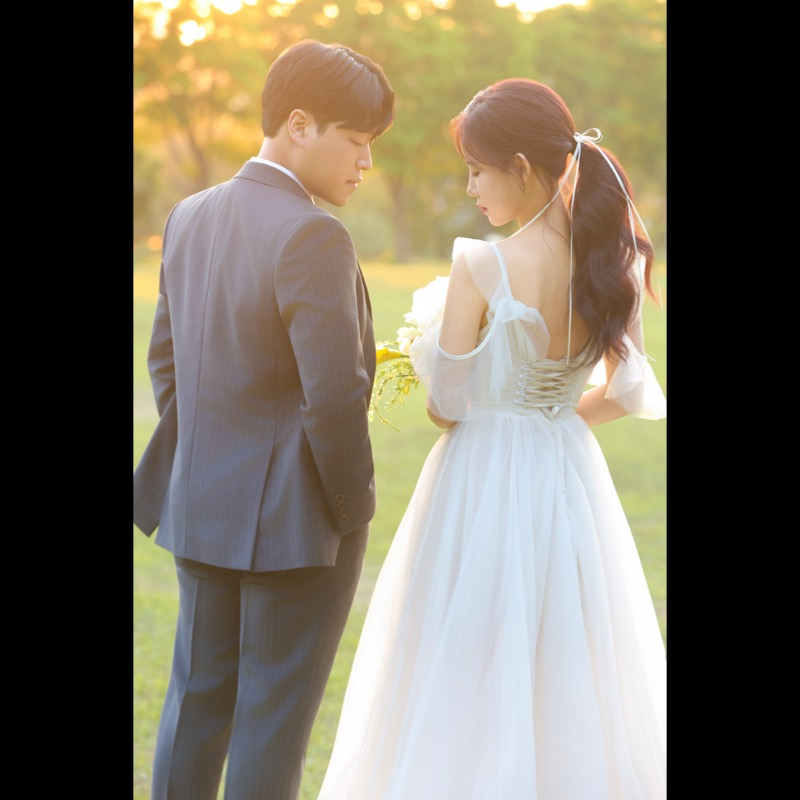
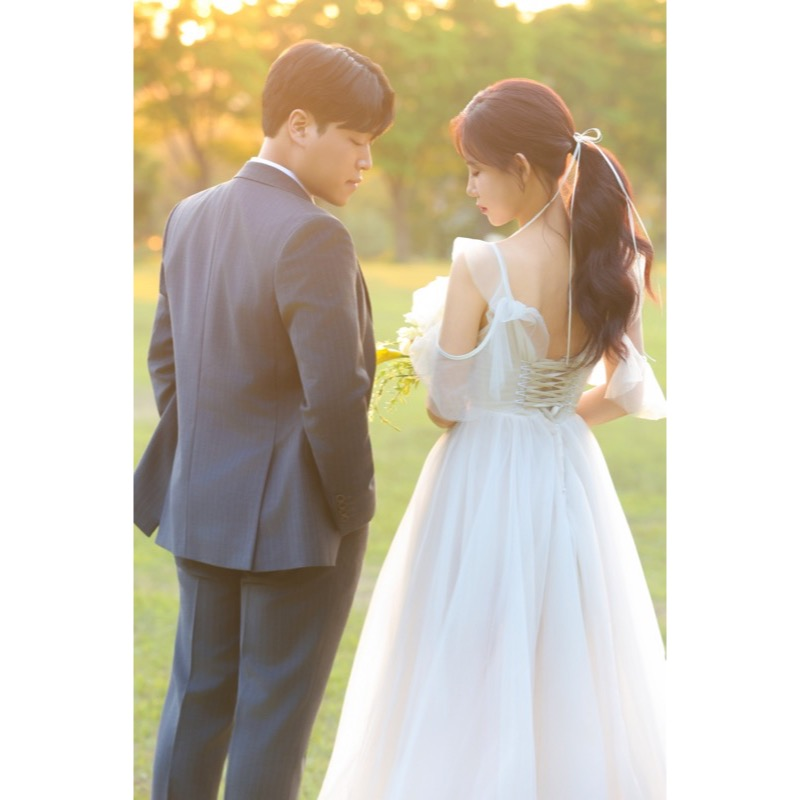
이미지 개선

diff --git a/src/components/ShareSection.js b/src/components/ShareSection.js
@@ -16,7 +16,7 @@ const ShareSection = () => {
         content: {
           title: shareTitle,
           description: shareDescription,
-          imageUrl: `${window.location.origin}/og-image.jpg`,
+          imageUrl: `${window.location.origin}/og-image-kakao.jpg`,
           link: {
             mobileWebUrl: shareUrl,
             webUrl: shareUrl,
